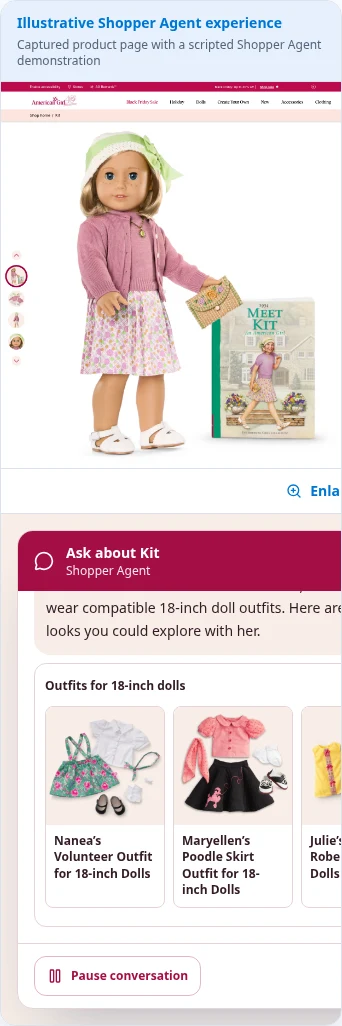
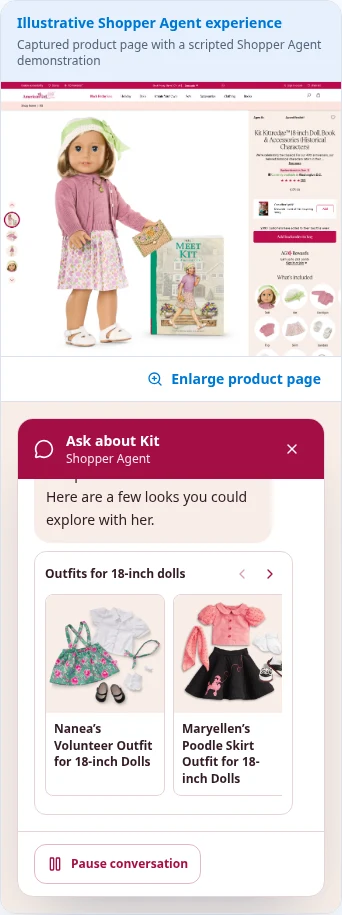
Contain the outfit carousel on narrow screens

diff --git a/src/components/microsite/ShopperAgent.tsx b/src/components/microsite/ShopperAgent.tsx
@@ -109,7 +109,7 @@ export function ShopperAgent() {
             Captured product page with a scripted Shopper Agent demonstration
           </span>
         </figcaption>
-        <div className="grid items-start lg:grid-cols-[minmax(0,1fr)_22rem]">
+        <div className="grid grid-cols-1 items-start lg:grid-cols-[minmax(0,1fr)_22rem]">
           <div>
             <img
               src={kitPdp}
@@ -129,7 +129,7 @@ export function ShopperAgent() {
               </button>
             </div>
           </div>
-          <div className="self-stretch border-t bg-[#f8eee7] p-4 lg:border-l lg:border-t-0">
+          <div className="min-w-0 self-stretch border-t bg-[#f8eee7] p-4 lg:border-l lg:border-t-0">
             <div
               id="kit-conversation"
               hidden={!open}

diff --git a/src/components/microsite/KitOutfitCarousel.tsx b/src/components/microsite/KitOutfitCarousel.tsx
@@ -66,7 +66,7 @@ export function KitOutfitCarousel() {
         id="kit-outfits"
         ref={track}
         aria-labelledby="kit-outfits-heading"
-        className="flex snap-x snap-mandatory gap-2 overflow-x-auto overscroll-x-contain pb-2"
+        className="flex w-full min-w-0 snap-x snap-mandatory gap-2 overflow-x-auto overscroll-x-contain pb-2"
         onScroll={(event) => {
           const { scrollLeft, scrollWidth, clientWidth } = event.currentTarget;
           setEdges({ start: scrollLeft <= 1, end: scrollLeft + clientWidth >= scrollWidth - 1 });
